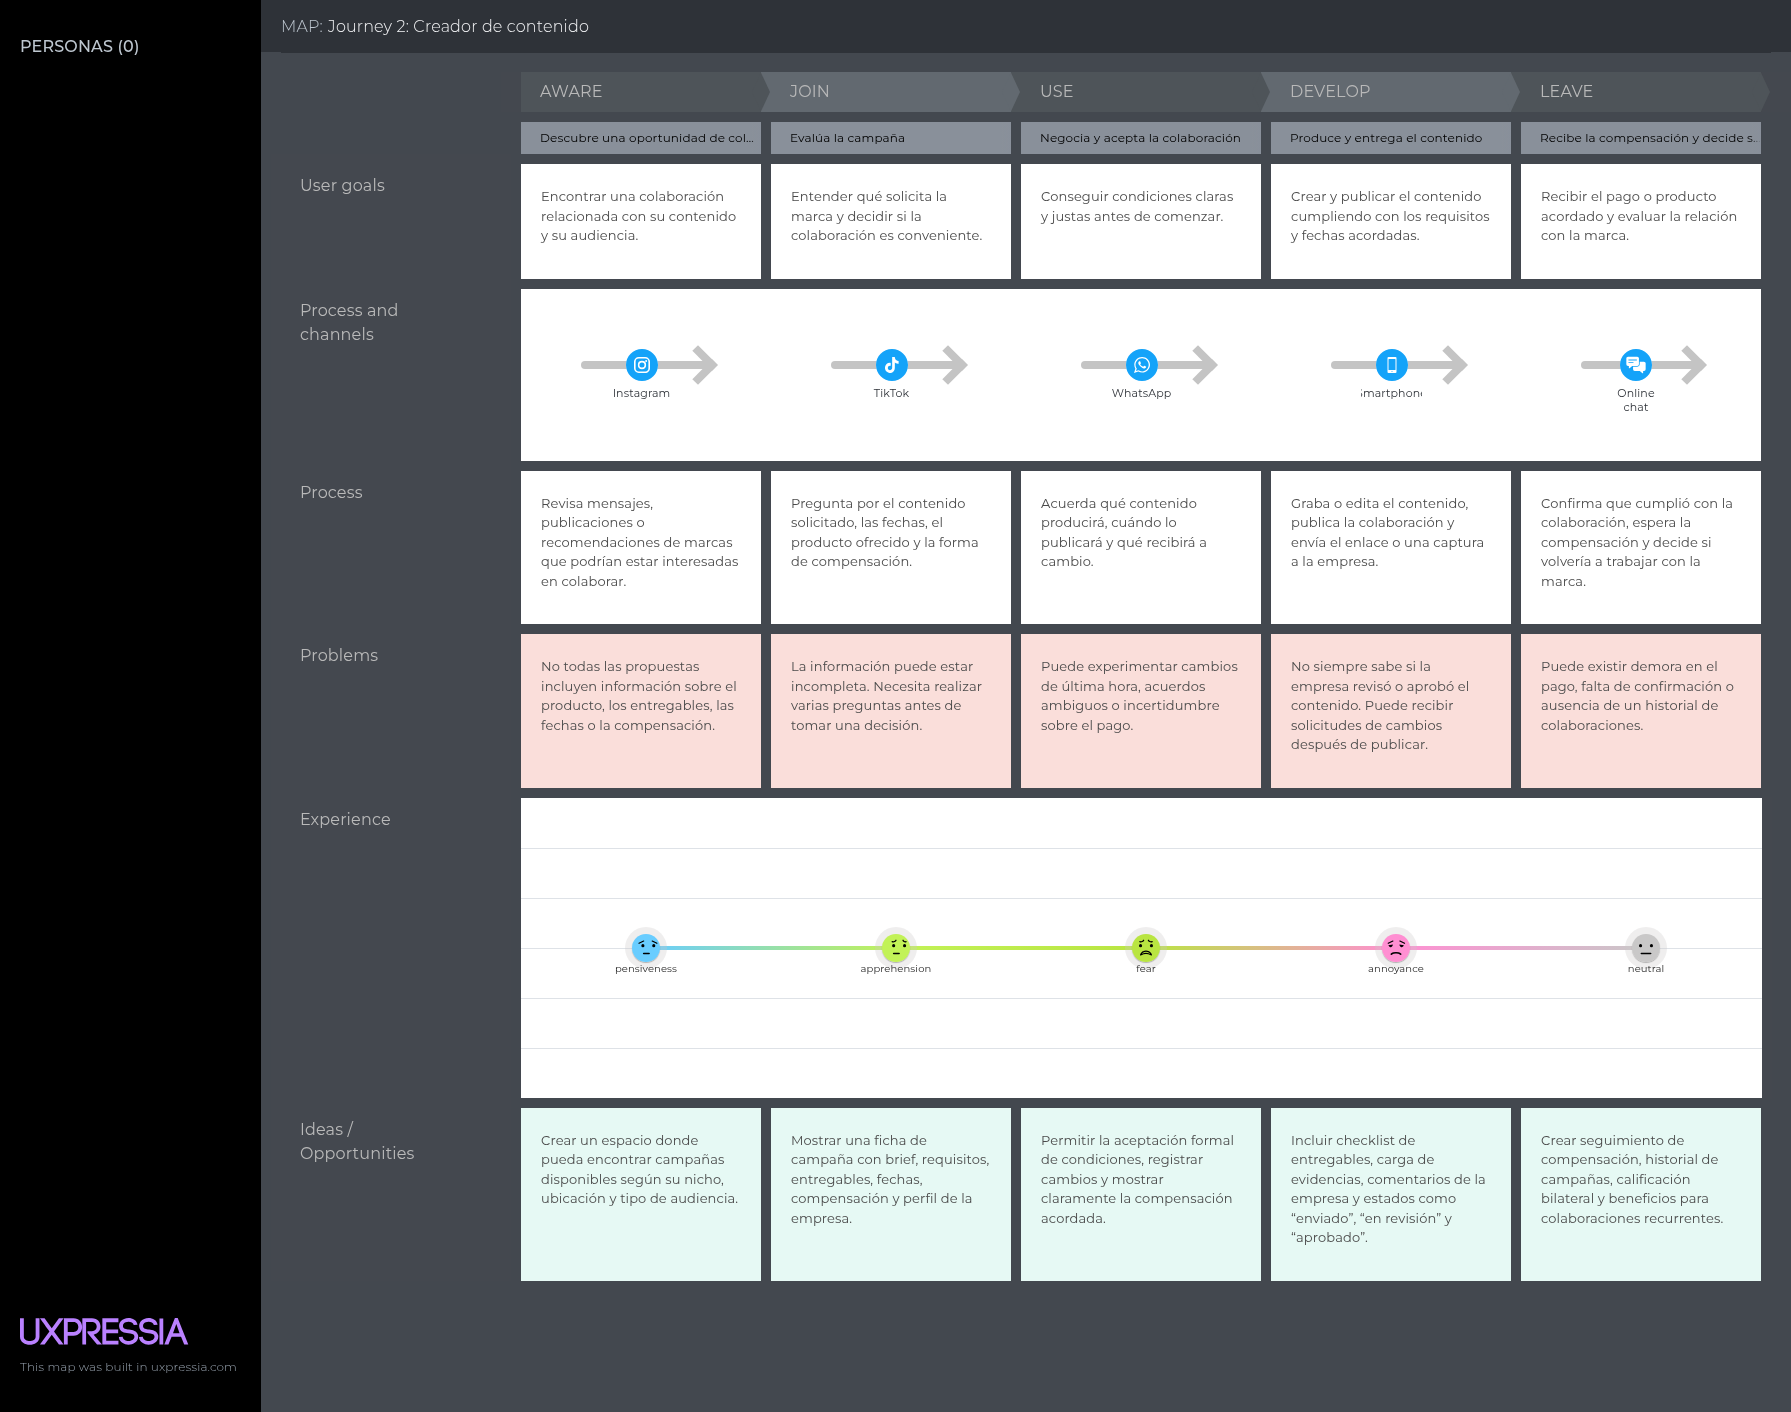
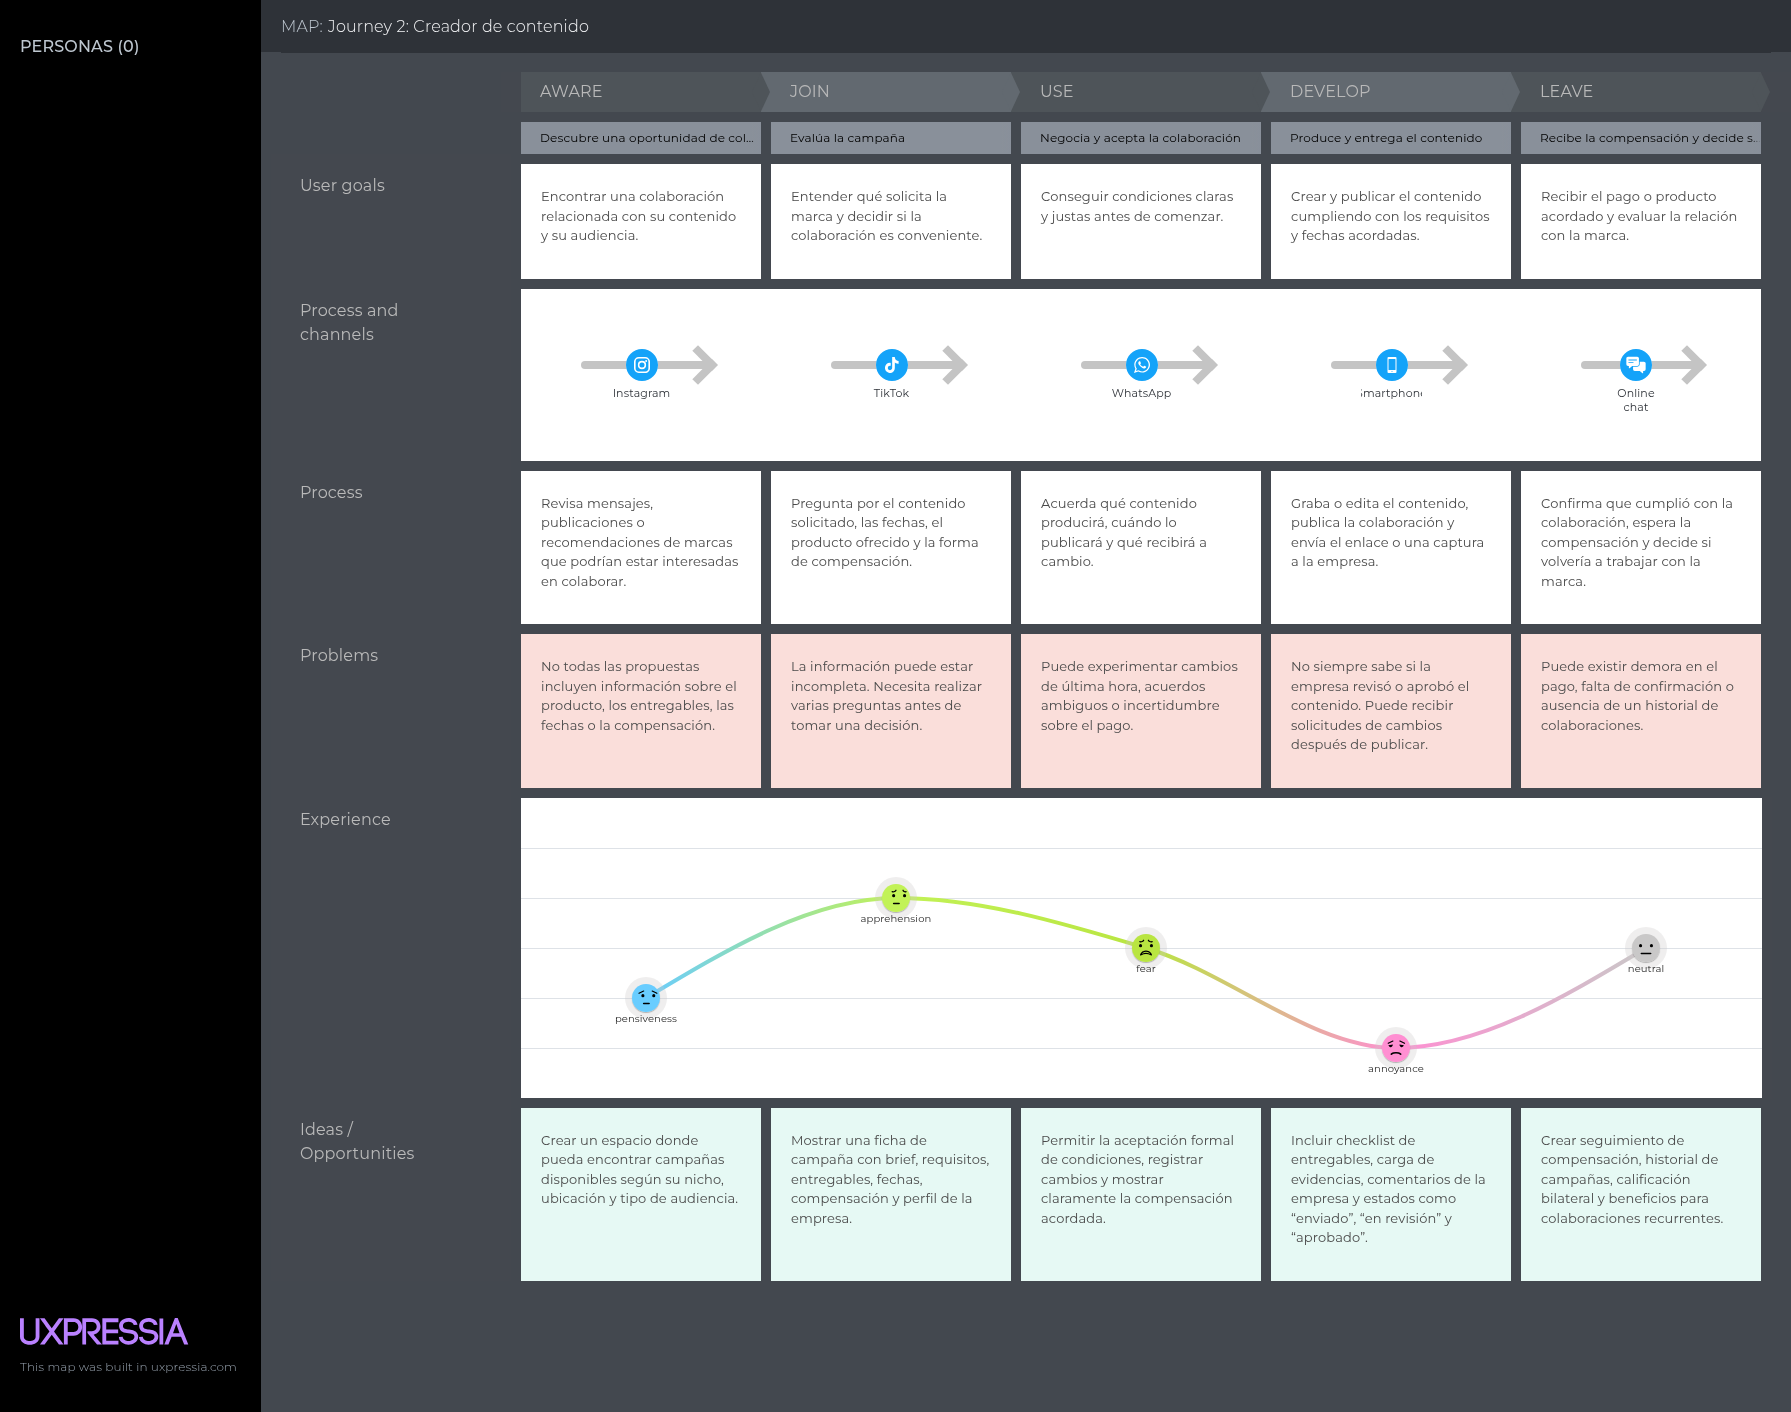
docs: added empathy mapping for chapter 02

diff --git a/README.md b/README.md
@@ -632,7 +632,19 @@ El journey del creador de contenido muestra un proceso basado en propuestas reci
 
 #### 2.3.4. Empathy Mapping
 
-[Insertar mapas de empatía]
+Los mapas de empatía permiten sintetizar lo que cada segmento necesita realizar, observa, escucha, dice, hace, piensa y siente durante el proceso de colaboración entre una pyme y un creador de contenido. También permiten organizar sus principales problemas y beneficios esperados.
+
+**Empathy Map 1: Pyme**
+
+![Empathy Map - Pyme](./assets/C02/Needfinding/Empathy%20map%20Pyme.png)
+
+El mapa de empatía de la pyme se construyó a partir de la entrevista realizada a Frank Loayza. El segmento busca promocionar su negocio y llegar a una audiencia joven, pero enfrenta dificultades para encontrar creadores adecuados, coordinar las condiciones, verificar los entregables y medir el retorno de inversión. Sus principales beneficios esperados son ahorrar tiempo, encontrar colaboradores relevantes, reducir el riesgo de las campañas y obtener métricas objetivas.
+
+**Empathy Map 2: Creador de contenido**
+
+![Empathy Map - Creador de contenido](./assets/C02/Needfinding/Empathy%20map%20Creador.png)
+
+El mapa de empatía del creador de contenido representa una proto-persona basada en los supuestos identificados para este segmento. El creador busca encontrar campañas compatibles con su audiencia, conocer los requisitos antes de aceptar, publicar el contenido acordado y recibir una compensación clara y puntual. Sus principales problemas son las propuestas incompletas, los cambios de última hora, la falta de confirmación y la coordinación dispersa mediante distintos canales. Este mapa deberá validarse mediante entrevistas con creadores reales.
 
 #### 2.3.5. Big Picture EventStorming
 
